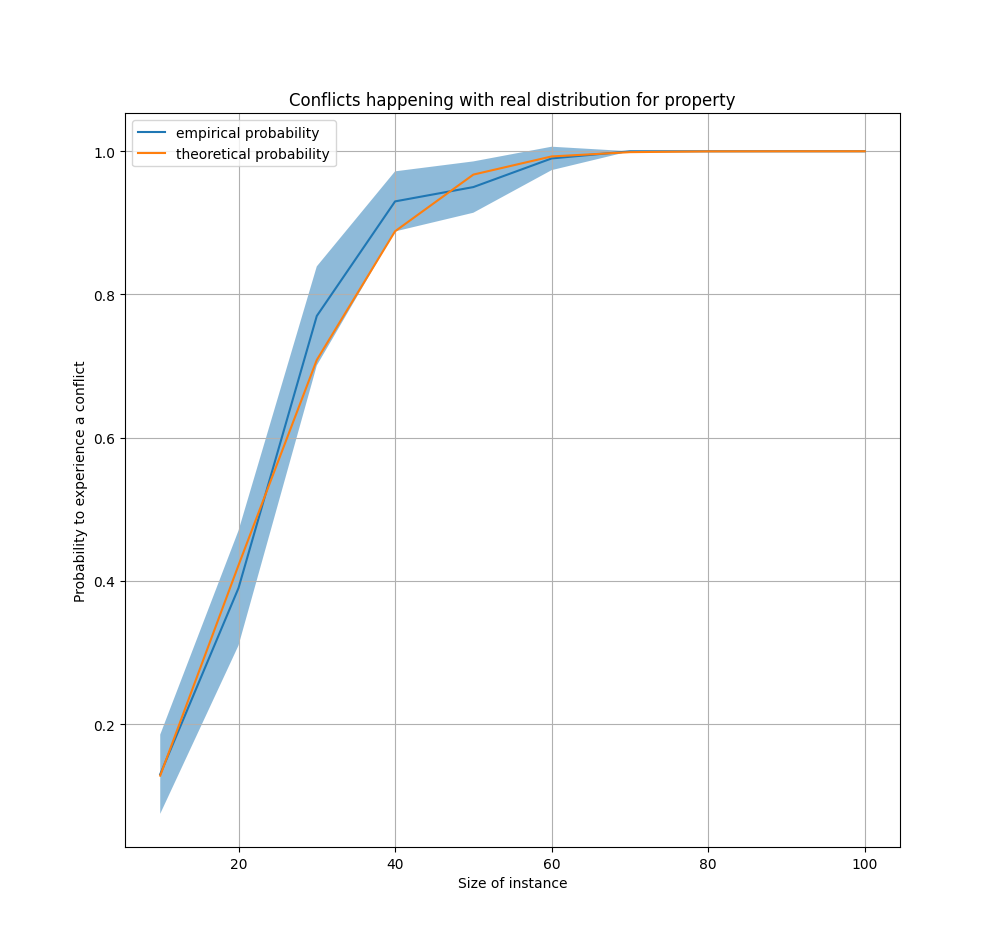
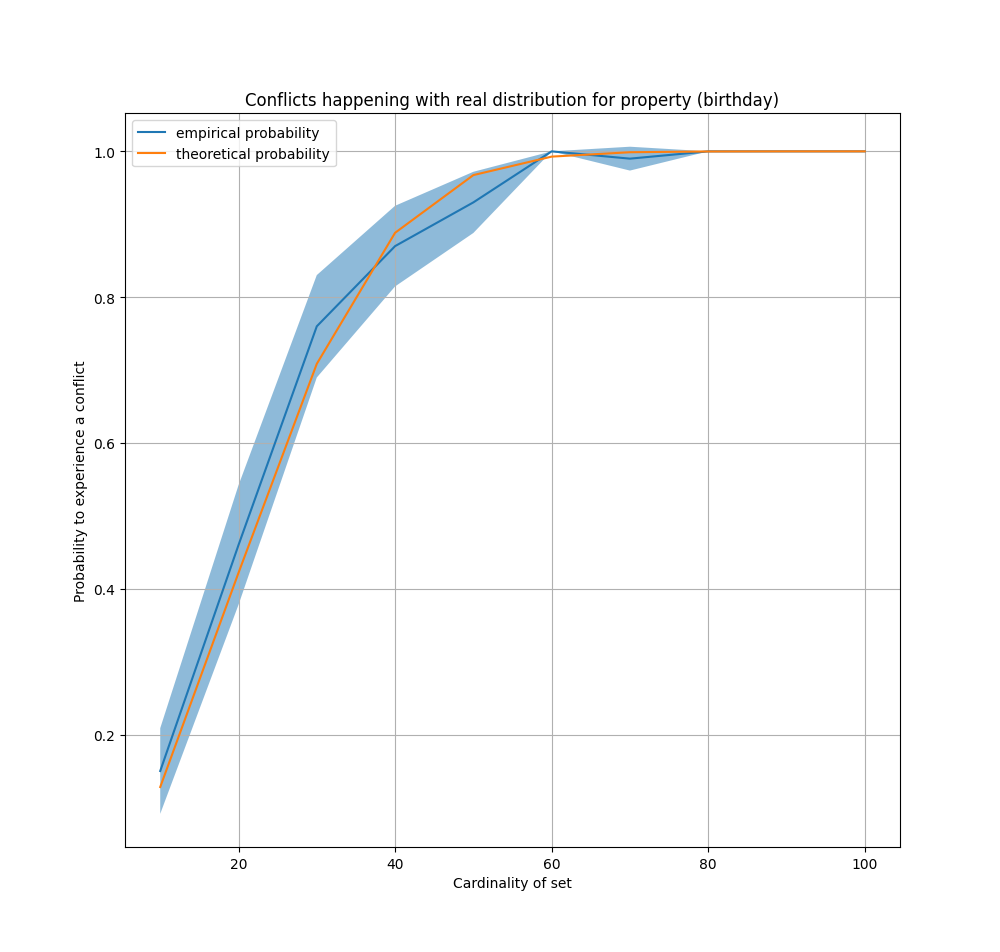
all done

diff --git a/lab_birthdayparadox/utils.py b/lab_birthdayparadox/utils.py
@@ -7,6 +7,10 @@ from typing import *
 import os
 
 class Property():
+    """
+    This class stores informations regarding a general property. In this specific case we are dealing with
+    birthdays, but this structure is useful for further generalization.
+    """
     def __init__(self, upper_bound):
         self.upper_bound = upper_bound
         self.uniform_prop = 0
@@ -21,6 +25,10 @@ class Property():
         return self.real_prop
 
 class Obj():
+    """
+    This class builds objects with a specific value for their property. Since we are dealing with birthdays
+    each instance can be seen as a person with just one relevant property.
+    """
     def __init__(self, id, uniform_prop=None, real_prop=None):
         self.id = id
         self.uniform_prop = uniform_prop
@@ -29,8 +37,27 @@ class Obj():
     def __str__(self) -> str:
         return f"Object: {self.id} -> U:{self.uniform_prop} -> R:{self.real_prop}"
 
-def retrieve_avg_cardinality(experiments : int, dist_type : str) -> float:
-    pass
+def retrieve_avg_cardinality(experiments : int, dist_type : str, probs : List[float], prop_upper_bound : int) -> Tuple[float, List[int]]:
+    """
+    Function used to retrieve the average cardinality of the set to experience a conflict. 
+    It performs 100 experiments to establish such average.
+    """
+    glob_list = list()
+    for _ in range(experiments):
+        m = 0
+        test_list = list()
+        while True:
+            if dist_type == "uniform":
+                new_item = generate_uniform_instance(prop_upper_bound=prop_upper_bound, id=m)
+            else:
+                new_item = generate_real_instance(prop_upper_bound=prop_upper_bound, id=m, probs=probs)
+            test_list.append(new_item)
+            if check_for_conflicts(test_set=test_list, prop_upper_bound=prop_upper_bound):
+                glob_list.append(m)
+                break
+            m += 1
+    return np.sum(glob_list)/len(glob_list), glob_list
+
 
 def generate_uniform_set(m : int, prop_upper_bound : int) -> List[Obj]:
     """
@@ -40,6 +67,12 @@ def generate_uniform_set(m : int, prop_upper_bound : int) -> List[Obj]:
     """
     return [Obj(id=i,uniform_prop=Property(upper_bound=prop_upper_bound).generate_uniform_prop()).uniform_prop for i in range(m)]
 
+def generate_uniform_instance(prop_upper_bound : int, id : int) -> Obj:
+    """
+    Identical to generate_uniform_set() but returns just one instances.
+    """
+    return Obj(id=id,uniform_prop=Property(upper_bound=prop_upper_bound).generate_uniform_prop()).uniform_prop
+
 def generate_real_set(m : int, prop_upper_bound : int, probs : List[float]) -> List[Obj]:
     """
     This function returns a list of objects with a given property. According to the probem's specification
@@ -48,25 +81,30 @@ def generate_real_set(m : int, prop_upper_bound : int, probs : List[float]) -> L
     """
     return [Obj(id=i,real_prop=Property(upper_bound=prop_upper_bound).generate_real_prop(probs=probs)).real_prop for i in range(m)]
 
-def generate_uniform_instance(prop_upper_bound : int) -> Obj:
-    pass
-
 def generate_real_probs(filename: str) -> List[float]:
+    """
+    This function returns the probabilities for each birthday according to a specific collection.
+    The file used is in the current directory or can be found 
+    @ https://github.com/fivethirtyeight/data/tree/master/births
 
-    b = pd.read_csv(filename)
-    b = b.groupby(['month','date_of_month'])
-    total_day_per_month = b['births'].sum()
+    """
+    b = pd.read_csv(filename).groupby(['month','date_of_month'])
     # removing leap year hor homogeneity w.r.t. the rest of the code
-    total_day_per_month = total_day_per_month.drop((2,29))
+    total_day_per_month = b['births'].sum().drop((2, 29))
     total = total_day_per_month.sum() 
     probs = (total_day_per_month/total).values
-
     return probs
 
-def generate_real_instance() -> Obj:
-    pass
+def generate_real_instance(prop_upper_bound : int, id : int, probs : List[float]) -> Obj:
+    """
+    Same function as generate_real_set() but returns just one instance.
+    """
+    return Obj(id=id,real_prop=Property(upper_bound=prop_upper_bound).generate_real_prop(probs=probs)).real_prop
 
 def check_for_conflicts(test_set : List[Obj], prop_upper_bound : int) -> bool:
+    """
+    This functions checks if two objects experience a conflict w.r.t. their property in a specific list given as input.
+    """
     lookup_table = [0 for _ in range(1, prop_upper_bound + 1)]
     for prop in test_set:
         lookup_table[prop] += 1
@@ -75,6 +113,9 @@ def check_for_conflicts(test_set : List[Obj], prop_upper_bound : int) -> bool:
     return False
 
 def generate_prob_ci(probs : List[float], experiments : int) -> Tuple[List[float], List[float]]:
+    """
+    According to theory, this function generates the confidence interval for the probability of experiencing a conflict.
+    """
     upper_bound = list()
     lower_bound = list()
 
@@ -87,34 +128,42 @@ def generate_prob_ci(probs : List[float], experiments : int) -> Tuple[List[float
     
     return upper_bound, lower_bound
 
-def generate_avg_ci(cardinalities : List[int]) -> int:
+def generate_avg_ci(cardinalities : List[int]) -> float:
+    """
+    This function returns the confidence interval for the average cardinality experiencing a conflict.
+    """
     ci = st.t.interval(alpha=0.05, df=len(cardinalities)-1, loc=np.mean(cardinalities), scale=np.var(cardinalities))
     return ci
 
 def theoretical_prob(m : List[int], prop_upper_bound : int) -> List[float]:
+    """
+    Returns the theoretical probabilities according to the theory seen during lecture.
+    """
     theo_prob = list()
     for cardinality in m:
         theo_prob.append(round(1 - pow(np.e, -1*(pow(cardinality,2))/(2*prop_upper_bound)), 5))
     return theo_prob
 
-def plot_result(title : str,
+def plot_results(title : str,
                 filepath : str,
                 filename : str,
                 events : List[int],
                 exp_probs : List[float],
-                upper_probs : List[float],
-                lower_probs : List[float],
                 theo_probs : List[float],
+                upper_probs : List[float] = None,
+                lower_probs : List[float] = None,
                 savefig_bool : bool = True) -> None:
 
     fig, ax = plt.subplots(figsize=(10, 15))
     ax.plot(events, exp_probs, label="empirical probability")
     ax.plot(events, theo_probs, label="theoretical probability")
-    ax.fill_between(events, lower_probs, upper_probs, alpha=.5)
-    ax.set_xlabel("Size of instance")
+    if upper_probs and lower_probs:
+        ax.fill_between(events, lower_probs, upper_probs, alpha=.5)
+    ax.set_xlabel("Cardinality of set")
     ax.set_ylabel("Probability to experience a conflict")
     plt.title(title)
     plt.grid()
     plt.legend()
     plt.show()
-    fig.savefig(os.path.join(filepath, filename))
+    if savefig_bool:
+        fig.savefig(os.path.join(filepath, filename))

diff --git a/lab_birthdayparadox/main.py b/lab_birthdayparadox/main.py
@@ -19,23 +19,29 @@ np.random.seed(SEED)
 
 EXP_PER_INSTANCE = 100
 INSTANCES = [i for i  in range(10, 110, 10)]
-DIST_TYPEs = ["uniform", "real"]  
+DIST_TYPES = ["uniform", "real"]  
 
 def main():
     # for each kind of property distribution
-    avg_dict = dict()
-    for dist_type in DIST_TYPEs:
-        print(f"Using {dist_type} distribution to generate property")
+    avg_dict = {"dist_type":["Average Cardinality", "C.I.", "Theory avg. cardinality"]}
+    for dist_type in DIST_TYPES:
+        print(f"\nUsing {dist_type} distribution to generate property")
         # for each cardinality of the set under study
         global_lengths = list()
         global_probs = list()
-
         # study the average number of objects to experience a conflict w.r.t. their property
-        avg_cardinality = retrieve_avg_cardinality()
-        avg_ci = generate_avg_ci(cardinalities=INSTANCES)
+        avg_cardinality, glob_list = retrieve_avg_cardinality(
+                                                    experiments=EXP_PER_INSTANCE,
+                                                    dist_type=dist_type,
+                                                    probs=generate_real_probs(args.real_data),
+                                                    prop_upper_bound=args.prop_upper_bound
+                                                    )
+        # building the confidence interval for such measure
+        avg_ci = generate_avg_ci(cardinalities=glob_list)
+        # storing the final results for later logging
+        avg_dict[f"{dist_type}"] = [avg_cardinality, avg_ci, 1.25*np.sqrt(args.prop_upper_bound)]
 
-        avg_dict[f"{dist_type}"] = [avg_cardinality, avg_ci]
-
+        # prob. study
         for cardinality in INSTANCES:
             print(f"\tWorking with cardinality: {cardinality}. Performing {EXP_PER_INSTANCE} experiments")
             # study the probability of observing a conflict
@@ -60,7 +66,8 @@ def main():
             # building theoreical result
             theo_prob = theoretical_prob(m=global_lengths, prop_upper_bound=args.prop_upper_bound)
 
-        plot_result(title=f"Conflicts happening with {dist_type} distribution for property",
+        # plot final results
+        plot_results(title=f"Conflicts happening with {dist_type} distribution for property (birthday)",
                     filepath="results/",
                     filename=f"{dist_type}",
                     events=global_lengths,
@@ -69,6 +76,9 @@ def main():
                     lower_probs=lower_bound,
                     theo_probs=theo_prob,
                     savefig_bool=True)
+    # final logging
+    print("\n\t FINAL RESULTS PER DISTRIBUTION:")
+    print(tabulate(avg_dict, headers=["Uniform", "Real",], tablefmt="fancy_grid"))
                 
 if __name__ == "__main__":
     main()
